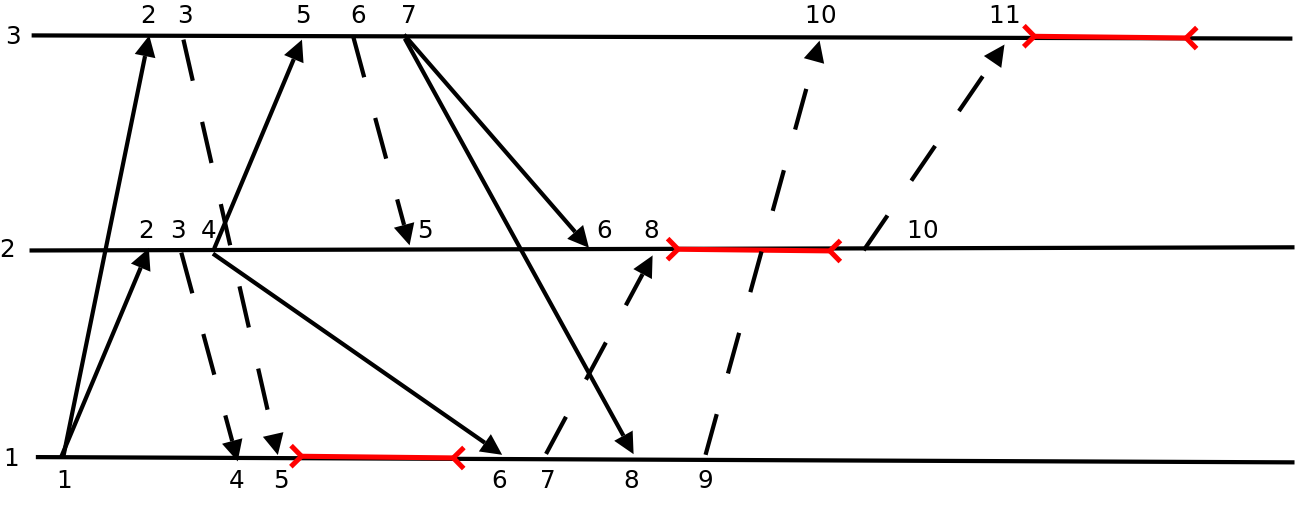
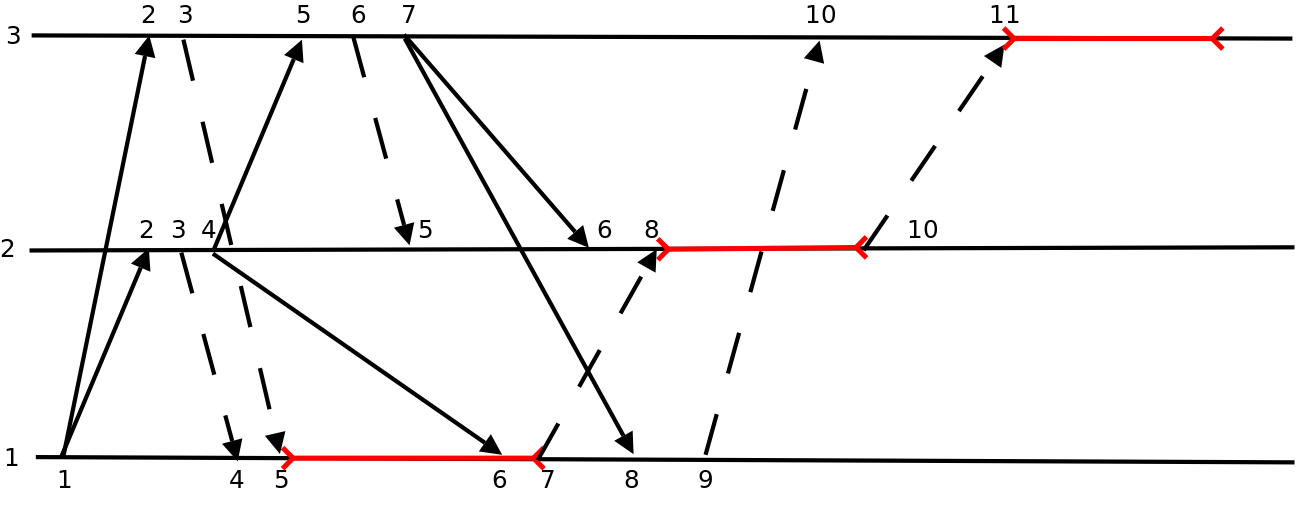
Modification du script client, modification diagramme, ajout cas utilisation au rapport

diff --git a/report/partie1.tex b/report/partie1.tex
@@ -22,4 +22,71 @@ L'écriture de ce programme a été l'occasion de découvrir la fonction \verb|s
 De manière un peu moins technique (et un peu plus philosophique...), nous avons éprouvé quelques difficultés à revenir au C après avoir fait du Java ou du C++ voir du Python durant nos stages et projets à l'ISIMA. Néanmoins, ce retour aux sources nous a permis d'apprécier une nouvelle fois la toute puissance de Vim (complétion du code, syntaxe, gestion des fenêtres, des onglets, auto-indentation) et d'exploiter pleinement le potentiel de git (système de gestion de version distribué).
 
 \section{Un Cas d'utilisation}
+Nous avons testé notre application dans le cadre ou chacun des trois clients effectue une requete dès le lancement. En d'autre terme, sur chacun des xterms la commande e a été appelé du Client 1 au Client3.
 
+Ci-dessous la trace de chacun des client, suivi du graphique ``Callflow'' des lancements 
+\paragraph{Client 1 : \\}
+
+        \begin{minipage}{0.90\textwidth}
+                \begin{lstlisting}
++++ Broadcasted message : Req(1, 1)
+--- Received message : Req(1, 1)
+--- Received message : Ack(3, 2)
+--- Received message : Ack(3, 3)
+Entering critical section.
+..........
+Leaving critical section.
+--- Received message : Req(4, 2)
++++ Sent message : Ack(7, 1)
+--- Received message : Req(7, 3)
++++ Sent message : Ack(9, 1)
+                \end{lstlisting}
+        \end{minipage}
+
+
+\paragraph{Client 2 :\\}
+
+        \begin{minipage}{0.90\textwidth}
+                \begin{lstlisting}
+
+--- Received message : Req(1, 1)
++++ Sent message : Ack(3, 2)
+e
++++ Broadcasted message : Req(4, 2)
+--- Received message : Req(4, 2)
+--- Received message : Ack(6, 3)
+--- Received message : Req(7, 3)
+--- Stacking Ack message for client 3
+--- Received message : Ack(7, 1)
+Entering critical section.
+..........
+Leaving critical section.
++++ Sent message : Ack(10, 2)
+\end{lstlisting}
+        \end{minipage}
+
+\paragraph{Client 3 :\\ }
+
+        \begin{minipage}{0.90\textwidth}
+                \begin{lstlisting}
+--- Received message : Req(1, 1)
++++ Sent message : Ack(3, 3)
+--- Received message : Req(4, 2)
++++ Sent message : Ack(6, 3)
+e
++++ Broadcasted message : Req(7, 3)
+--- Received message : Req(7, 3)
+--- Received message : Ack(9, 1)
+--- Received message : Ack(10, 2)
+Entering critical section.
+..........
+Leaving critical section.
+
+\end{lstlisting}
+        \end{minipage}
+\begin{center}
+\begin{figure}[H]
+	\includegraphics[width=\textwidth]{images/casUtil.png}
+\caption{CallFlow de l'éxecution du cas d'utilisation}
+\end{figure}
+\end{center}

diff --git a/report/main.tex b/report/main.tex
@@ -10,7 +10,7 @@
 % on inclue de l'utilitaire
 \usepackage{float}
 \usepackage{graphicx}
-
+\usepackage{listings}
 \newcommand{\Hrule}{\rule{\linewidth}{0.5mm}}
 
 %On va se faire de belles marges
